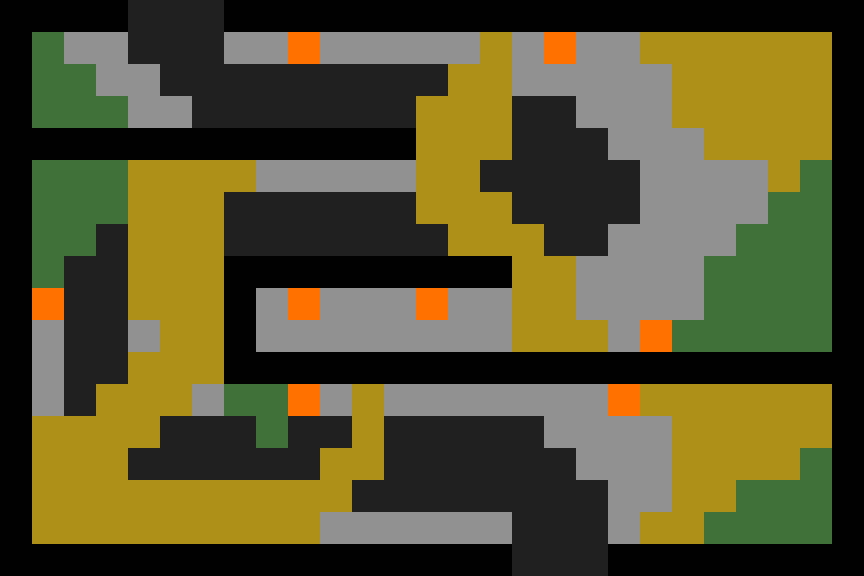
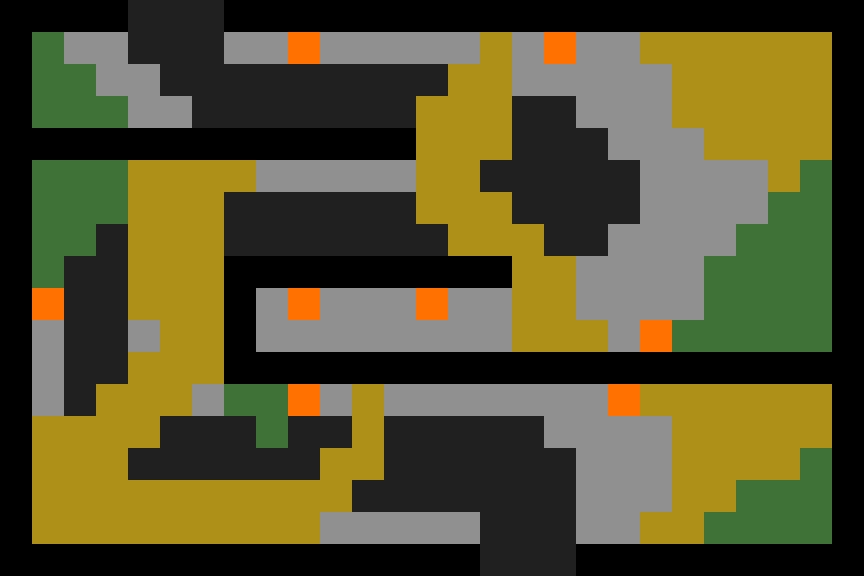
sauvegarde

Changed region(s): [[0.6562, 0.8125, 0.7188, 1.0], [0.5312, 0.875, 0.5938, 1.0]]

diff --git a/src/sauv.c b/src/sauv.c
@@ -27,7 +27,7 @@ int recuperation_joueur(joueur_t *joueur, char pseudo[50]) {   //Recuperation de
     while(fgets(ligne, sizeof(ligne), file) != NULL){        //lecture de chaque ligne
         sscanf(ligne, "%[^,]", nom);
         if(!strcmp(nom,pseudo)){                             //verification du pseudo
-            sscanf(ligne, "%49[^,], %c,%d,%d,%d\n",joueur->pseudo,&joueur->sexe,&joueur->x,&joueur->y,&joueur->pointSauvegarde);
+            sscanf(ligne, "%49[^,], %c,%d,%d,%d,%d\n",joueur->pseudo,&joueur->sexe,&joueur->numMap,&joueur->x,&joueur->y,&joueur->pointSauvegarde);
             //création du pointeur sur la structure inventaire
             joueur->inventaire = (inventaire_t *)malloc(sizeof(inventaire_t));
             if (!joueur->inventaire) {
@@ -348,7 +348,7 @@ int sauvegarde_partie(joueur_t *joueur, char pseudo[50]) { //Sauvegarde de la pa
         sscanf(ligne, "%[^,]", nom);
         //verifie si la ligne est a modifié 
         if(!strcmp(nom,pseudo)){
-            fprintf(temp,"%s,%c,%d,%d,%d\n",nom,joueur->sexe,joueur->x,
+            fprintf(temp,"%s,%c,%d,%d,%d,%d\n",nom,joueur->sexe,joueur->numMap,joueur->x,
                                             joueur->y,joueur->pointSauvegarde);
             trouver = OK;       //indique que la ligne existe et a été modifié
         }
@@ -357,7 +357,7 @@ int sauvegarde_partie(joueur_t *joueur, char pseudo[50]) { //Sauvegarde de la pa
         }
     }
     if(!trouver){       //si pas trouver alors créé une nouvelle ligne de sauvegarde
-        fprintf(temp,"%s,%c,%d,%d,%d\n",nom,joueur->sexe,joueur->x,
+        fprintf(temp,"%s,%c,%d,%d,%d,%d\n",nom,joueur->sexe,joueur->numMap,joueur->x,
                                             joueur->y,joueur->pointSauvegarde);
     }
 
@@ -427,4 +427,3 @@ int destruction_pnj(pnj_t *pnj){
     pnj->inventaire = NULL;
     return OK;
 }
-

diff --git a/src/main.c b/src/main.c
@@ -31,7 +31,8 @@ int main() {
     int last_case = RIEN;
     zone_t zone[10];
     mechas_t mecha[6];
-    game.mat_active = 1;
+    recuperation_joueur(&j,"noaha");
+    game.mat_active = j.numMap;
     mechas_joueur_t mecha_sauvage;
     int spawn_mecha = 0;
 
@@ -62,8 +63,6 @@ int main() {
     aff_mat(&game, taille_x_mat, taille_y_mat, 5);
     //INITIALISE LES MOUVEMENTS DU JOUEUR ET COORS
     j.derniere_touche = 1;
-    j.x = 13;
-    j.y = 15;
     j.moving = 0;
     j.derniere_touche = 4;
     j.proba_combat = 0;
@@ -123,7 +122,7 @@ int main() {
         }
     }
 
-
+    sauvegarde_partie(&j,"noaha");
     cleanUp(&game);
     free_mat(&game,taille_x_mat, taille_y_mat);
     destruction_joueur(&j);

diff --git a/src/player.c b/src/player.c
@@ -64,6 +64,7 @@ int deplacement(game_t * game, int taille_x, int taille_y, const Uint8 *keys, jo
             sprite_p->x = j->screen_x;
             sprite_p->y = j->screen_y;
             game->mat[game->mat_active][j->y][j->x] = JOUEUR;
+            j->numMap = game->mat_active;
             
         }
 

diff --git a/lib/sauv.h b/lib/sauv.h
@@ -57,6 +57,7 @@ typedef struct{
 typedef struct{
     char pseudo[50];
     char sexe;
+    int numMap;
     int x, y;
     float screen_x, screen_y;       // Position réelle à l'écran 
     int moving;                     // Indique si un déplacement est en cours
